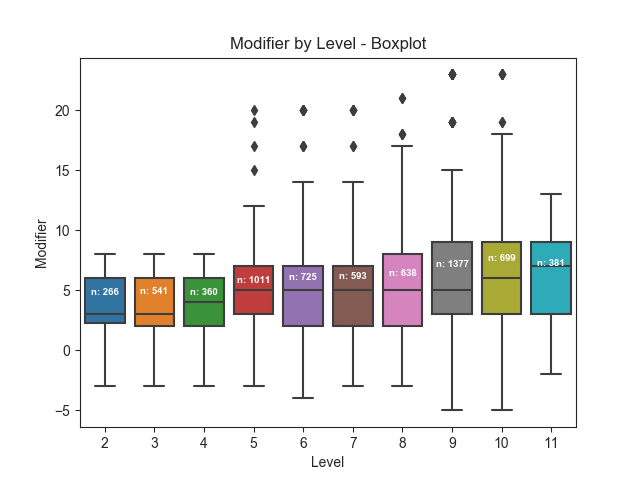
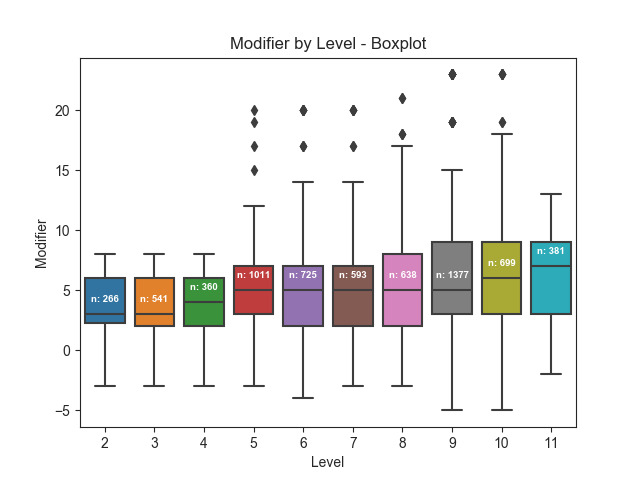
updated boxplot

diff --git a/src/boxplot.py b/src/boxplot.py
@@ -8,13 +8,13 @@ sns.set_style('ticks')
 sns.color_palette('dark')
 ax = sns.boxplot(df['Level'], df['Modifier'])
 
-means = df.groupby('Level')['Modifier'].mean().values
+medians = df.groupby('Level')['Modifier'].median().values
 nobs = df.groupby('Level')['Modifier'].agg(['count'])
 nobs = ["n: " + str(i) for s in nobs.values for i in s]
 
 pos = range(len(nobs))
 for tick,label in zip(pos, ax.get_xticklabels()):
-    ax.text(pos[tick], means[tick] + 1, s=nobs[tick], horizontalalignment='center', size='x-small', color='w',
+    ax.text(pos[tick], medians[tick] + 1, s=nobs[tick], horizontalalignment='center', size='x-small', color='w',
             weight='semibold')
 
 ax.set_title('Modifier by Level - Boxplot')

diff --git a/README.md b/README.md
@@ -29,8 +29,9 @@ After cleaning, there are 6591 rows, and 6 important columns;
     
    ```python
 import os
-import seaborn as sns
 import numpy as np
+import pandas as pd
+import seaborn as sns
 import matplotlib.pyplot as plt
    ```
 </details>
@@ -178,13 +179,13 @@ sns.set_style('ticks')
 sns.color_palette('dark')
 ax = sns.boxplot(df['Level'], df['Modifier'])
 
-means = df.groupby('Level')['Modifier'].mean().values
+medians = df.groupby('Level')['Modifier'].median().values
 nobs = df.groupby('Level')['Modifier'].agg(['count'])
 nobs = ["n: " + str(i) for s in nobs.values for i in s]
 
 pos = range(len(nobs))
 for tick,label in zip(pos, ax.get_xticklabels()):
-    ax.text(pos[tick], means[tick] + 1, s=nobs[tick], horizontalalignment='center', size='x-small', color='w',
+    ax.text(pos[tick], medians[tick] + 1, s=nobs[tick], horizontalalignment='center', size='x-small', color='w',
             weight='semibold')
 
 ax.set_title('Modifier by Level - Boxplot')
